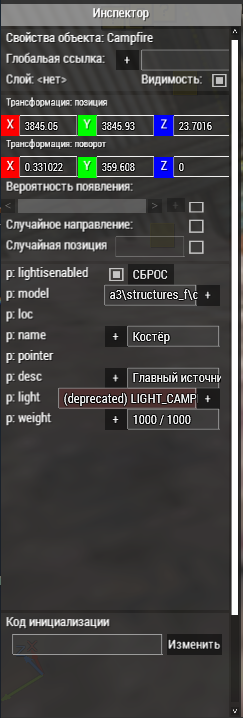
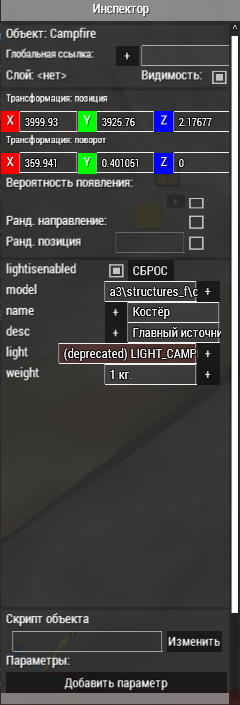
Editor documentation update

Changed region(s): [[0.0, 0.0, 1.0, 1.0]]

diff --git a/Documentation/EditorGuides/Editor_basics.md b/Documentation/EditorGuides/Editor_basics.md
@@ -200,21 +200,38 @@
 # Левая панель
 Левая панель содержит окно инспектора и списка объектов со слоями. Переключить отображение режимов левой панели можно через [раздел меню `Вид`](#вид) или через [горячие клавиши](#прочее)
 ## Инспектор
-Инспектор позволяет редактировать свойства выделенного игрового объекта. В зависимости от его типа (имени класса) список доступных настроек различается.
+Инспектор позволяет редактировать свойства выделенных игровых объектов. В зависимости от их типов (имён класса) список доступных настроек различается.
 
 ![Окно инспектора](Data/editor_inspector.png)
 
 | Опция | Описание |
 | --- | --- |
-|Свойства объекта|Отображает класснейм выбранного объекта
-|Глобальная ссылка|Уникальный идентификатор (строка) с помощью которой можно получить доступ к объекту во время симуляции либо использовать в зависимых инструментах (например при привязке электрического источника освещения к щитку или переключателю)
+|Объект|Отображает класснейм выбранного объекта для одного и количество выделенных для нескольких объектов. Чтобы узнать какие типы объектов выделены при множественном выделении наведите мышь на этот пункт. При нажатии по этому пункту открывается контекстное меню для замены типов и сброса настроек объекта. 
+|Глобальная ссылка|Уникальный идентификатор (строка) с помощью которой можно получить доступ к объекту во время симуляции либо использовать в зависимых инструментах (например при привязке электрического источника освещения к щитку или переключателю).
 |Трансформация|Позволяет изменять позицию и ориентацию объекта через окно инспектора
 |Вероятность появления|При включении данной опции можно указать вероятность появления объекта при каждой загрузке карты (в процентах)
 |Случайное направление|Включив данную опцию при каждом создании объект будет направлен в случайную сторону.
 |Случайная позиция|При включении данной опции можно указать случайный радиус появления игрового объекта
+|Скрипт объекта|Позволяет назначить игровому объекту скрипт, созданный с помощью редактора [визуального скриптинга ReNode](../ReNode/README.md)
+|Параметры|Набор входных данных, которые можно обработать внутри скрипта объекта.
 | Код инициализации| **(Сохранен для обратной совместимости и будет удален позже)**<br/>Позволяет определять выполняемые ecode-инструкции при создании объекта. 
 
 Каждый игровой объект имеет ряд собственных свойств в зависимости от имени класса. Практически каждая из опций задокументирована и при наведении на её название можно получить описание за что конкретно отвечает данная опция.
+
+### Множественное редактирование свойств
+
+При работе в инспекторе с несколькими выделенными объектами стоит учитывать некоторые моменты:
+
+- Глобальные ссылки изменяются для всех объектов. Один объект (как правило первый выделенный) будет проименован заданным именем, а все последующие получат постфикс к заданному имени.<br/>Пример: ввели "main_object" -> первый выделенный объект будет иметь ссылку "main_object", второй "main_object (1)", третий "main_object (2)" и т.д.
+- В разделе трансформации изменение и сброс применяется ко всем выделенным объектам.
+- Настройки случайности устанавливаются и сбрасываются для всех объектов.
+- Свойства устанавливаются и сбрасываются для всех объектов, которые их имеют.
+
+![Окно инспектора](Data/editor_inspector_mul.png)
+
+На изображении выше продемонстрировано окно инспектора с 3 выделенными игровыми объектами. Как вы можете заметить к некоторым свойствам добавился текст `(несколько)`, что означает то, что данное свойство можно изменить для всех этих объектов. В случае со специфическими свойствами типа "Имя","Модель" и т.д. вы можете наблюдать приписку в скобках, указывающую сколько выделенных объектов имеют данное свойство.
+
+Свойства помеченные зеленым цветом означают, что в первом выбранном объекте такого свойства нет и оно предоставлено от последующих выделенных объектов. Для того, чтобы посмотреть каким классом предоставлено свойство наведитесь на его название.
 
 ## Список объектов и слои
 
